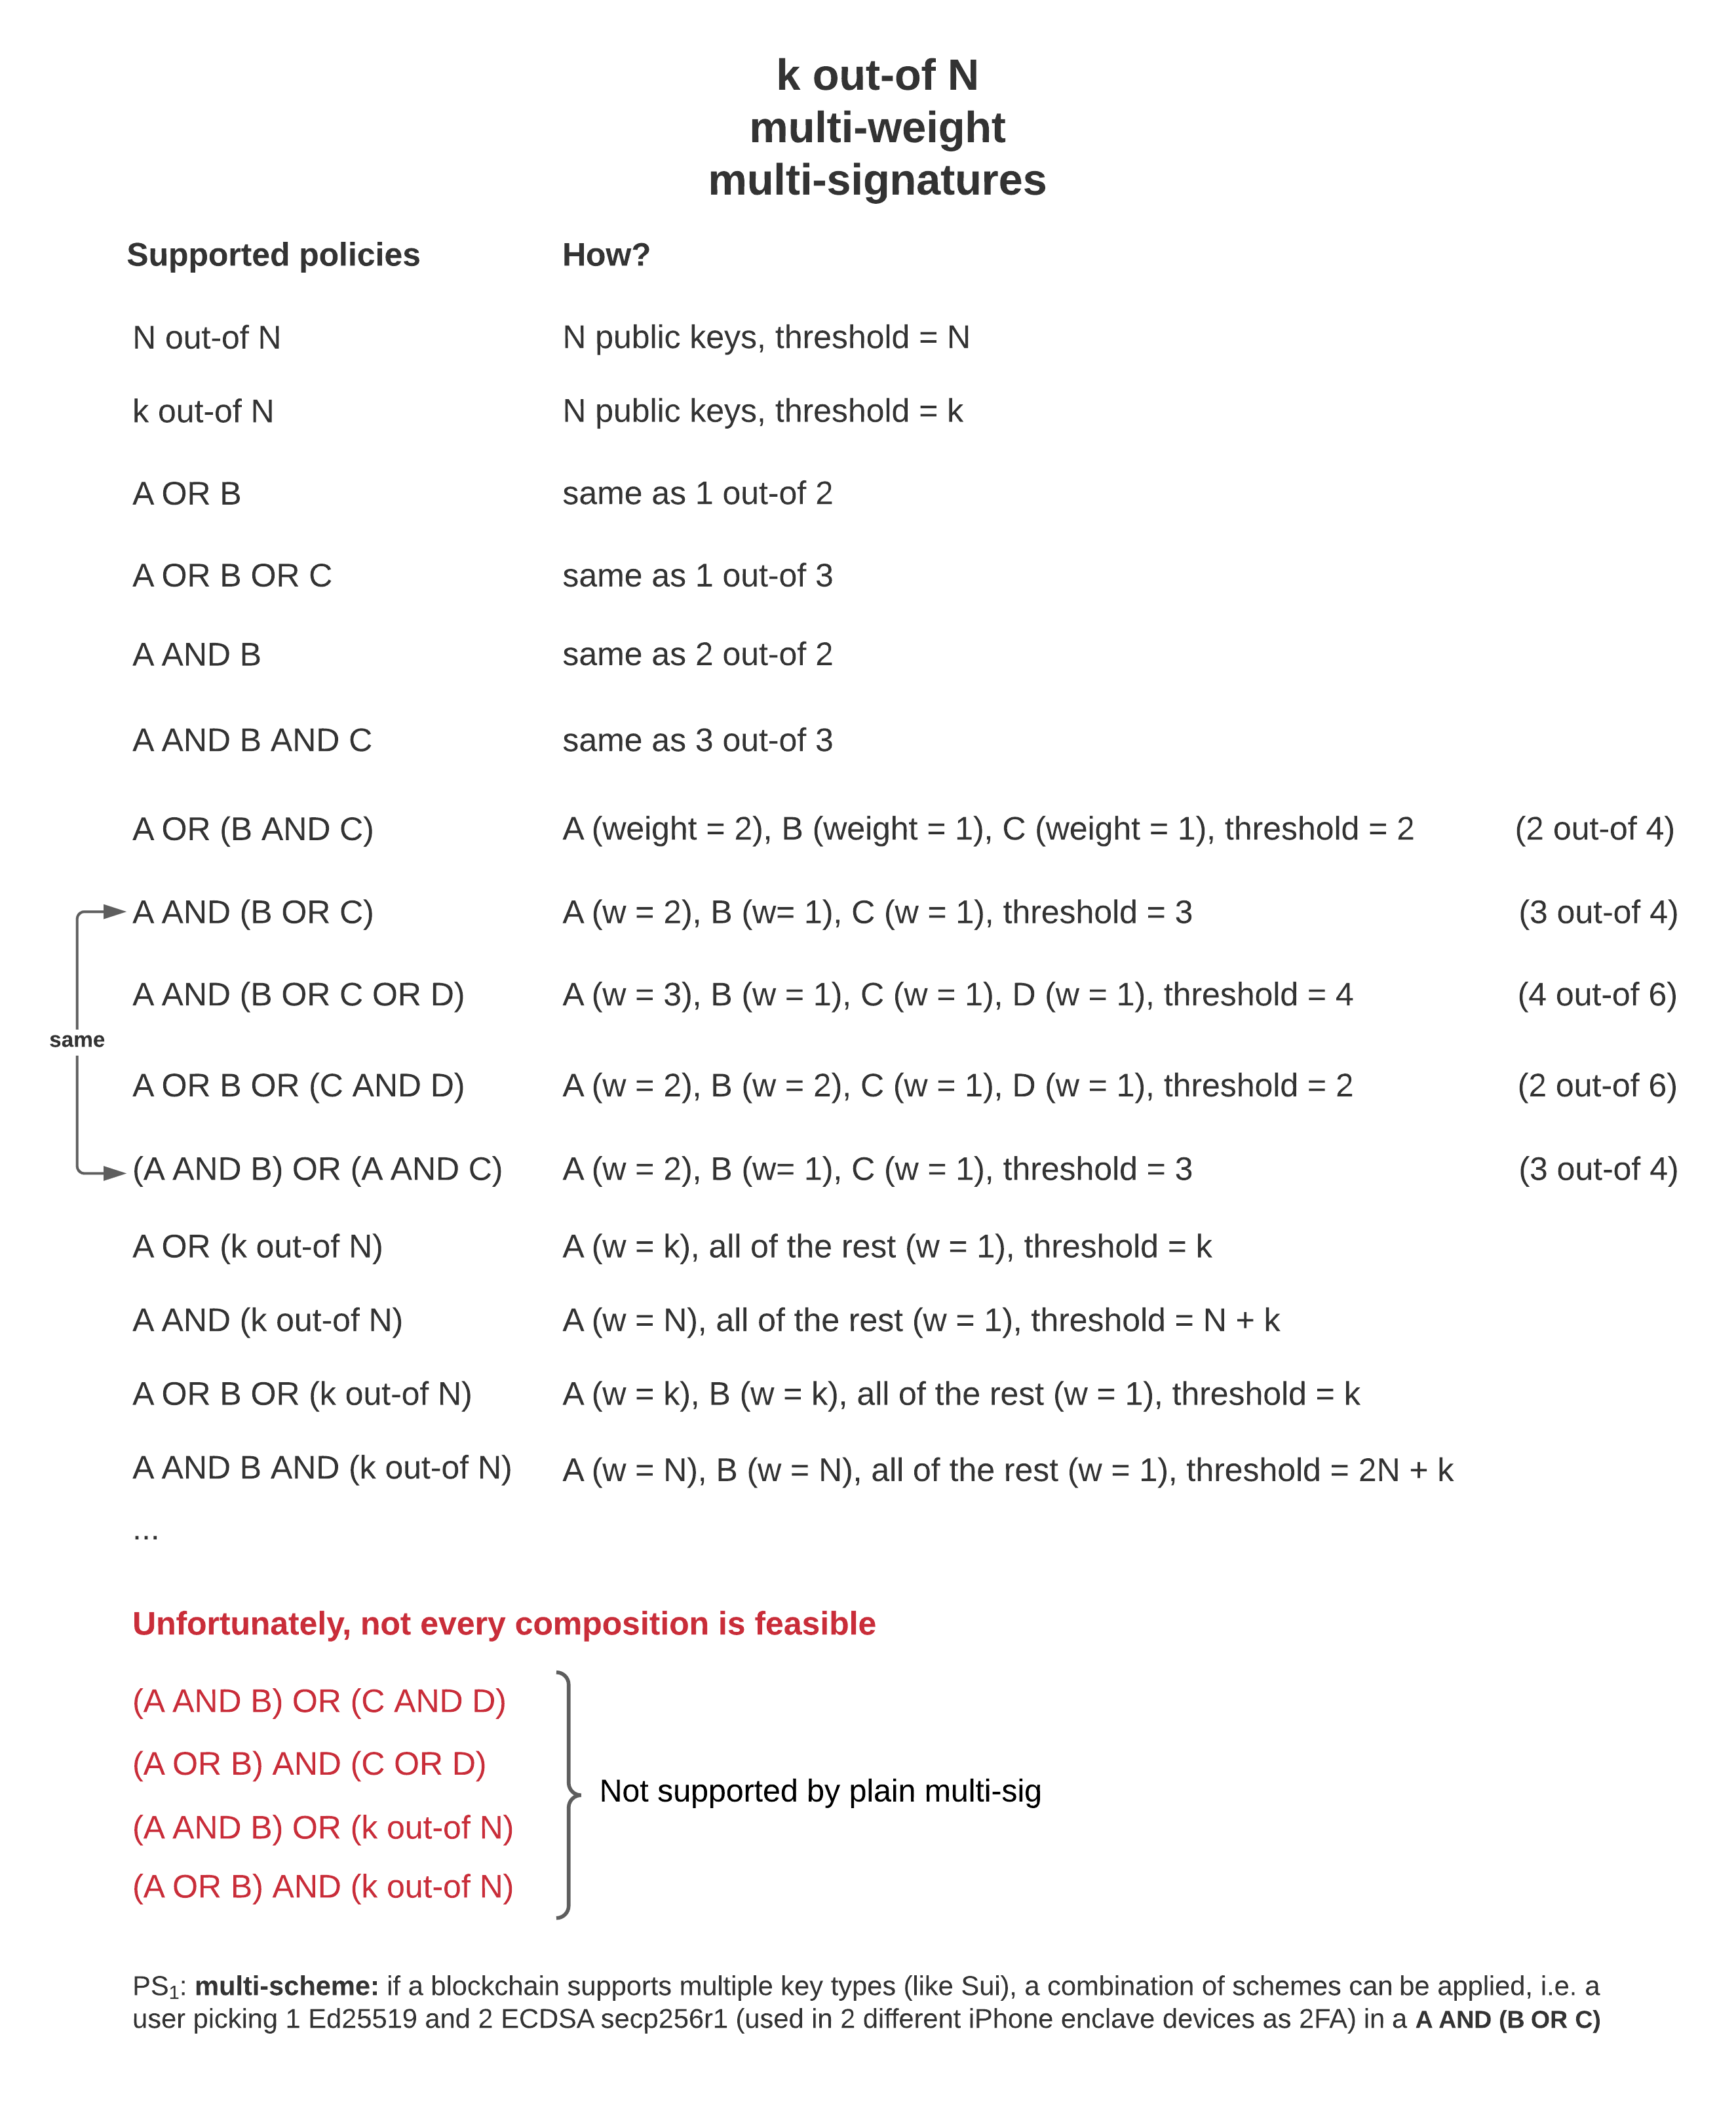
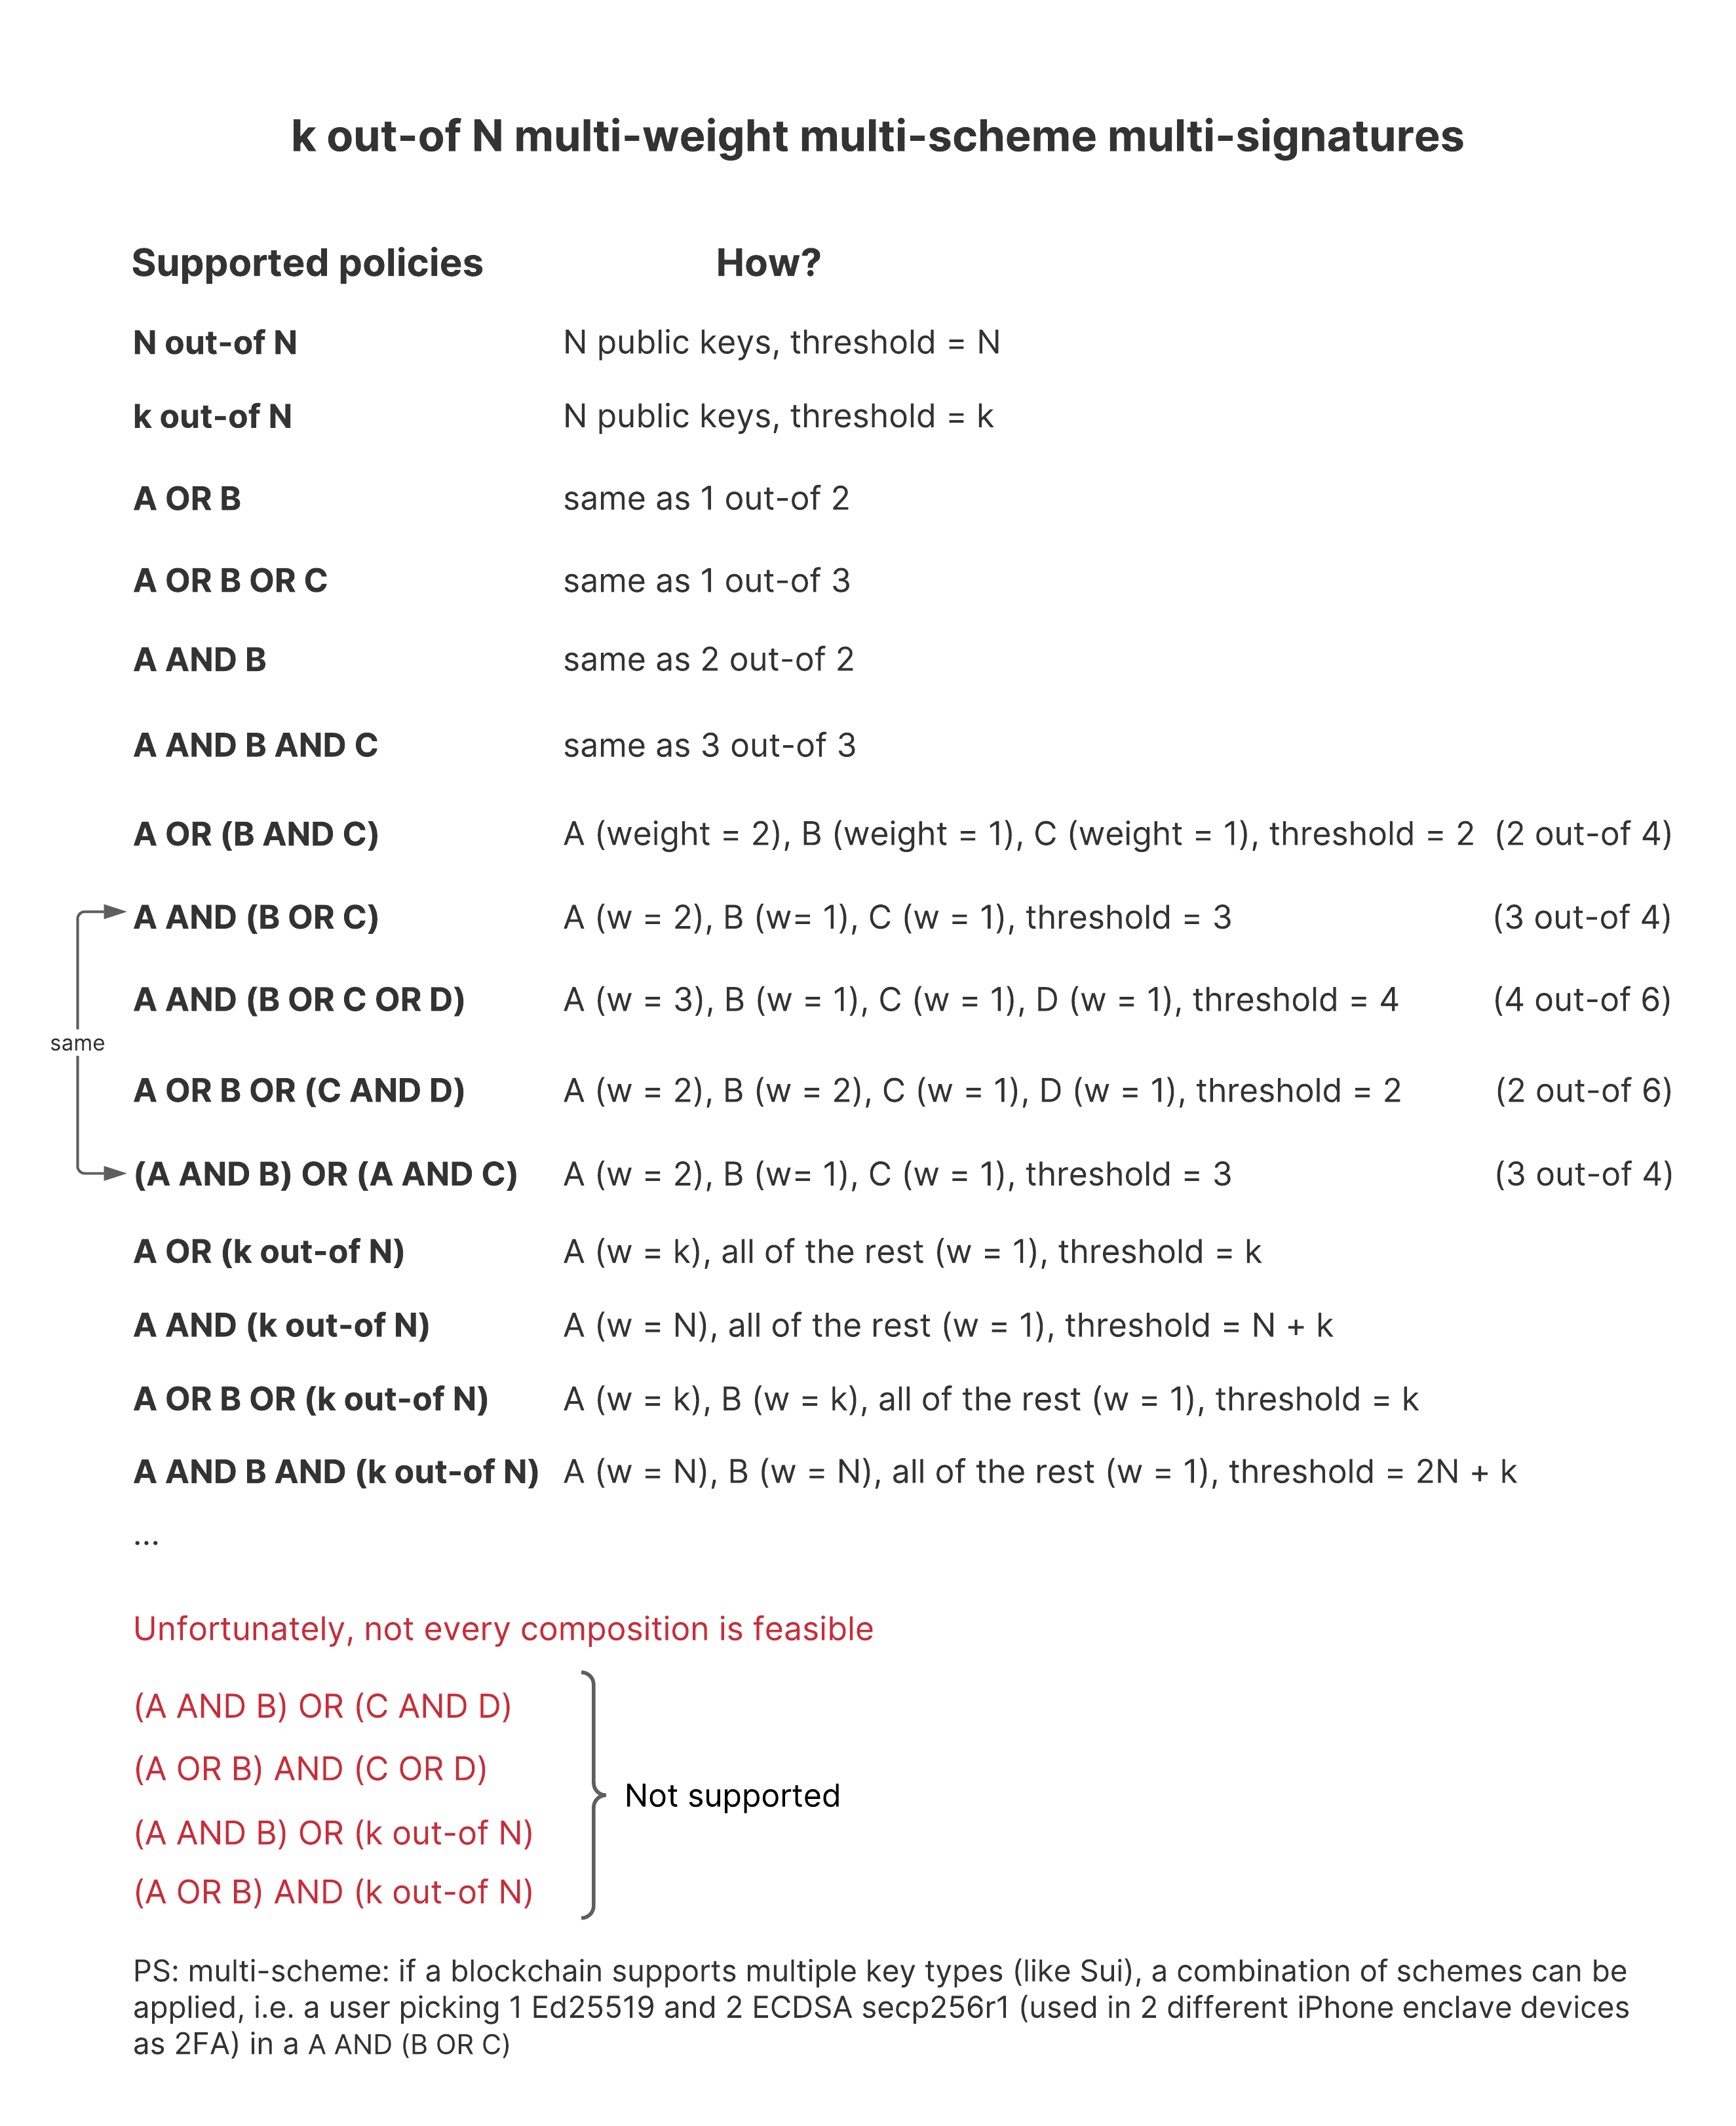
[crypto] multisig docs picture font update

diff --git a/doc/src/learn/cryptography/haneul-multisig.md b/doc/src/learn/cryptography/haneul-multisig.md
@@ -17,9 +17,9 @@ Interestingly, cryptographic agility allows users to mix and match key schemes i
 example, one can pick a single Ed25519 mnemonic-based key and two ECDSA secp256r1 key to create a multisig account that 
 always requires the Ed25519 key, but also one of the ECDSA secp256r1 keys to sign. A potential application of the above
 structure is using mobile secure enclave stored keys as 2FA; note that currently iPhone and high-end Android devices 
-support ECDSA secp256r1 enclave-stored keys only).
+support ECDSA secp256r1 enclave-stored keys only.
 
-![Haneul tokenomics flow](../../../static/cryptography/haneul_multisig_structures.png "Multisig Haneul supported structures")
+![Haneul tokenomics flow](../../../static/cryptography/haneul_multisig_structures_old.png "Multisig Haneul supported structures")
 *Examples of Haneul supported multisig structures.*
 
 ## Step 1: Add keys to Haneul keystore